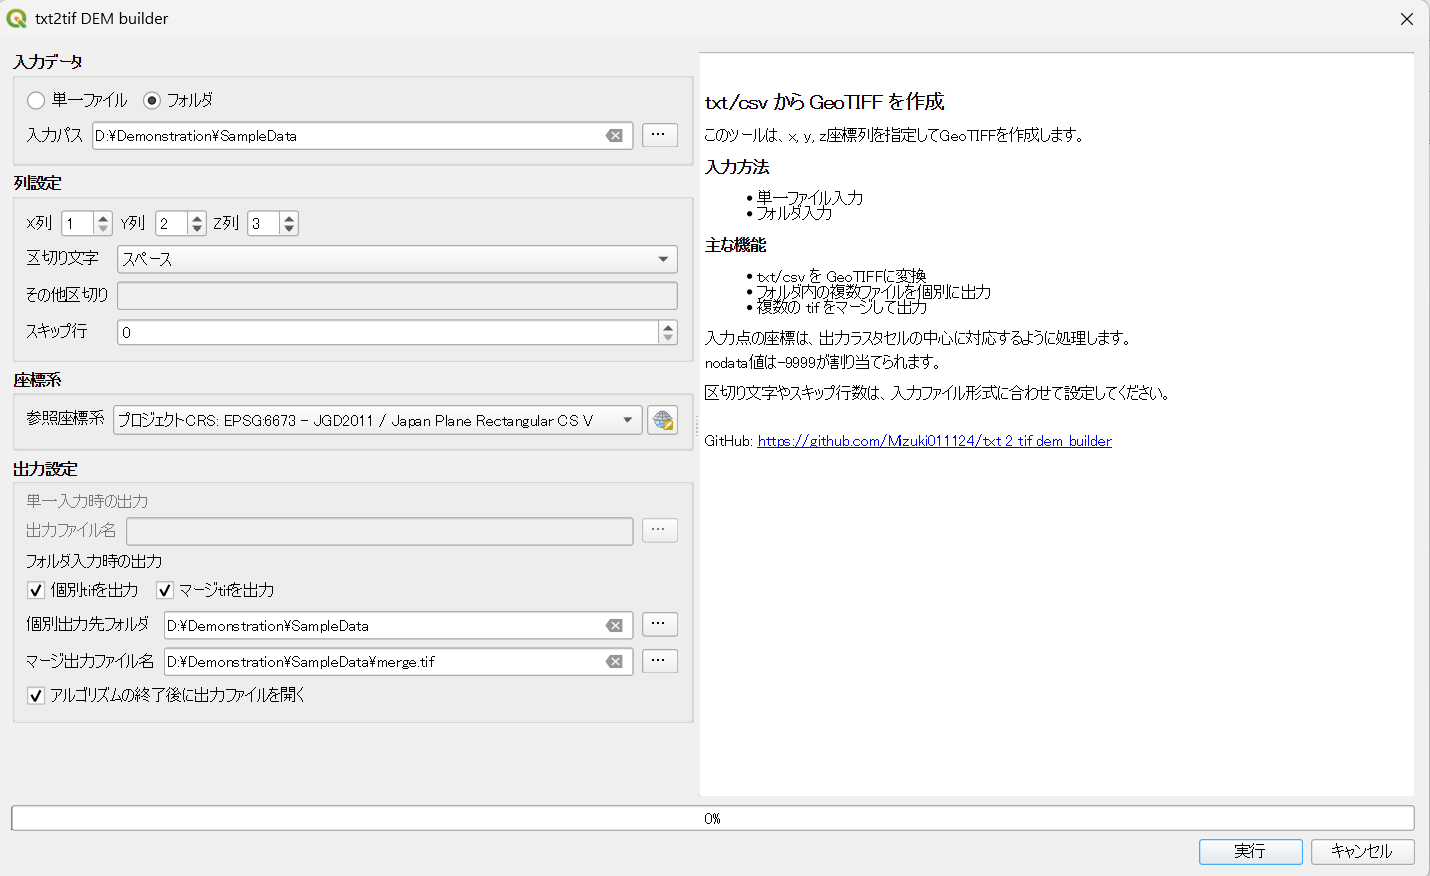
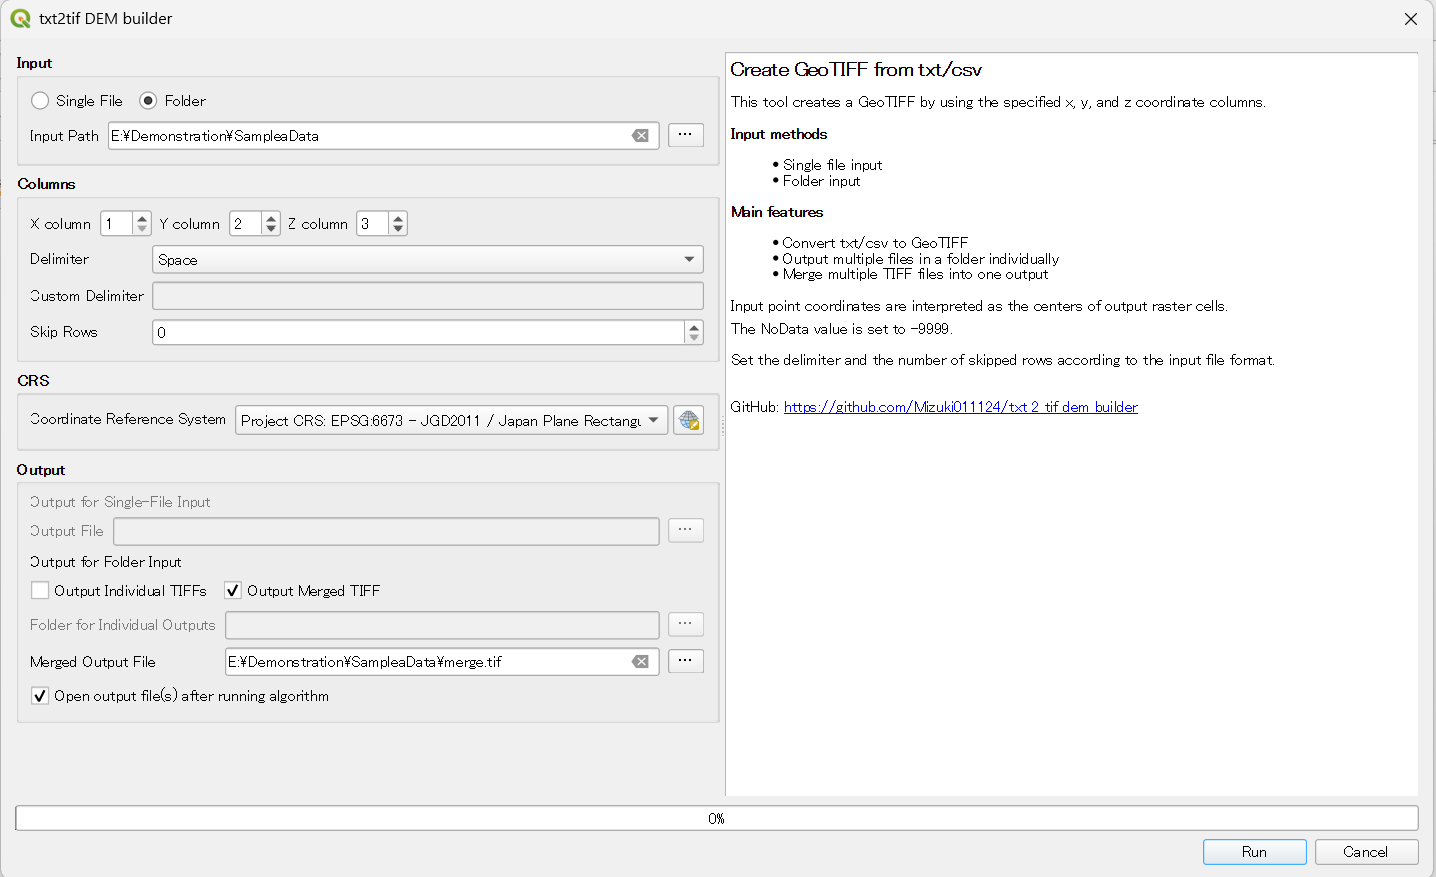
version up, readme編集

diff --git a/README.md b/README.md
@@ -1,44 +1,63 @@
-# txt_2_tif_dem_builder v1.0.0
+# txt_2_tif_dem_builder v1.1.0
 
-G空間情報センター等でダウンロードできるtxt/csv形式のDEMを、GeoTIFF形式に変換するQGISプラグインです。<br />
+G空間情報センター等でダウンロードできるtxt/csv形式のDEMを、GeoTIFF形式に変換するQGISプラグインです。  
 This plugin converts DEM data in txt/csv format (e.g., from the Geospatial Information Center) to GeoTIFF.
 
 ![](./docs/demo.gif)
 
-## 使い方
+## 使い方 / Usage
 
-1. プラグインをインストールすると、以下のアイコンがツールバーに表示されます。クリックするとツールが起動します。
+1. プラグインをインストールすると、以下のアイコンがツールバーに表示されます。クリックするとツールが起動します。  
+   After installing the plugin, the following icon will appear in the toolbar. Click it to launch the tool.
 
 <img src="./icon.png" alt="icon" width="100">
 
-2. 以下のパラメータを設定します。
+2. 以下のパラメータを設定します。  
+   Set the following parameters:
 
-- **入力データ**
+- **入力データ / Input Data**
   - 単一のtxt/csvファイル  
-  - または 複数ファイルを含むフォルダ
+    Single txt/csv file  
+  - または 複数ファイルを含むフォルダ  
+    Or a folder containing multiple files  
 
-- **列設定**
-  - X, Y, Z 座標列
-  - 区切り文字
-  - スキップ行数（ヘッダーなど）
+- **列設定 / Column Settings**
+  - X, Y, Z 座標列  
+    X, Y, Z coordinate columns  
+  - 区切り文字  
+    Delimiter  
+  - スキップ行数（ヘッダーなど）  
+    Number of rows to skip (e.g., header rows)  
 
-- **出力設定**
-  - 出力座標系
-  - 単一ファイル入力時：出力ファイル名を指定
-  - フォルダ入力時：
-    - 「個別tifを出力」
-    - 「マージtifを出力」
-    を選択し、それぞれ出力先を指定
+- **出力設定 / Output Settings**
+  - 出力座標系  
+    Output CRS  
+  - 単一ファイル入力時：出力ファイル名を指定  
+    For single file input: specify output file name  
+  - フォルダ入力時：  
+    For folder input:  
+    - 「個別tifを出力」  
+      Output individual TIFFs  
+    - 「マージtifを出力」  
+      Output Merged TIFF  
+    を選択し、それぞれ出力先を指定  
+    Select the desired options and specify output destinations  
 
-3. 「実行」をクリック
+3. 「実行」をクリック  
+   Click "Run"
 
 <img src="./docs/UI.png" alt="UI" width="800">
 
-## 留意事項
+## 留意事項 / Notes
 
-- 入力点の座標は、出力ラスタセルの**中心**に対応するよう処理されます。
-- NoData値は `-9999` が割り当てられます。
-- 入力ファイルの形式（区切り文字・列構成）に応じて、適切にパラメータを設定してください。
+- 入力点の座標は、出力ラスタセルの**中心**に対応するよう処理されます。  
+  Input point coordinates are treated as the **center** of output raster cells.  
+
+- NoData値は `-9999` が割り当てられます。  
+  The NoData value is set to `-9999`.  
+
+- 入力ファイルの形式（区切り文字・列構成）に応じて、適切にパラメータを設定してください。  
+  Please set parameters according to the input file format (delimiter, column structure, etc.).  
 
 ## Author
 
